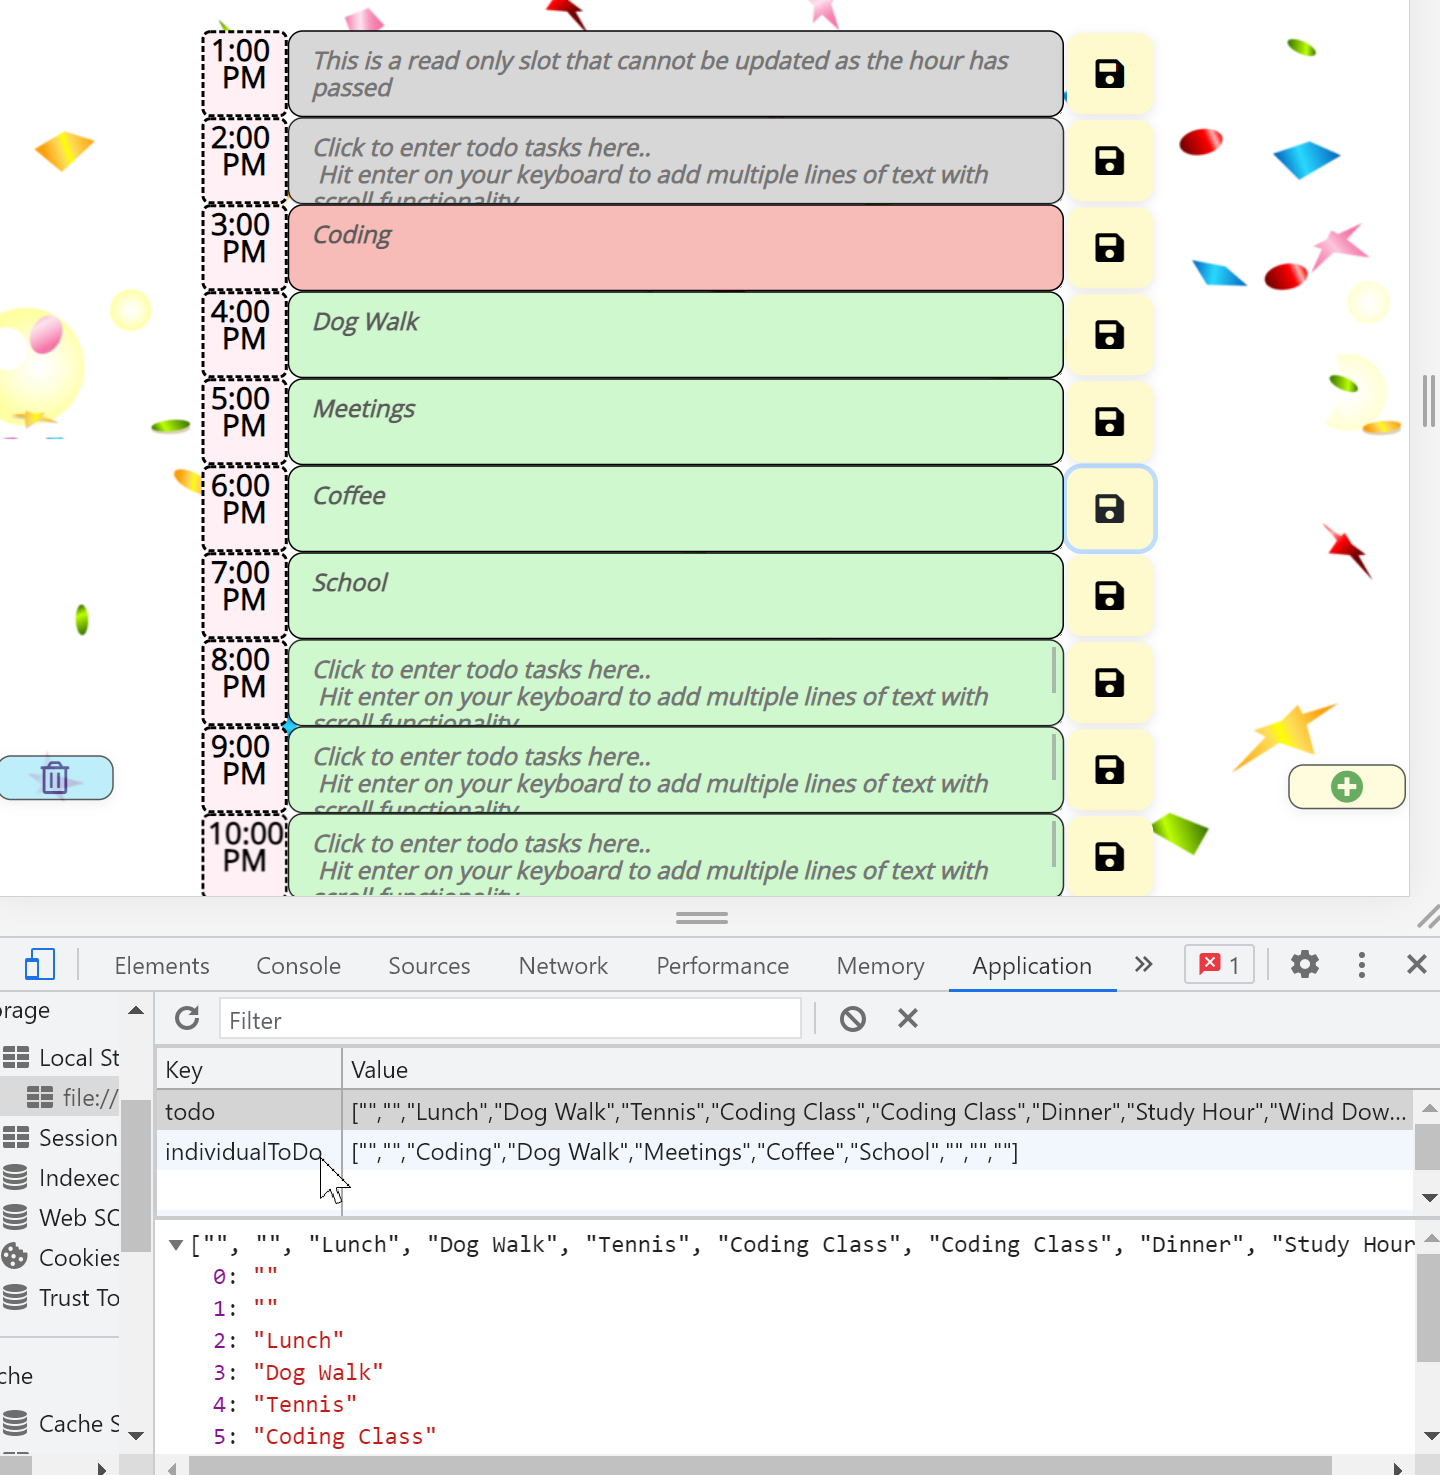
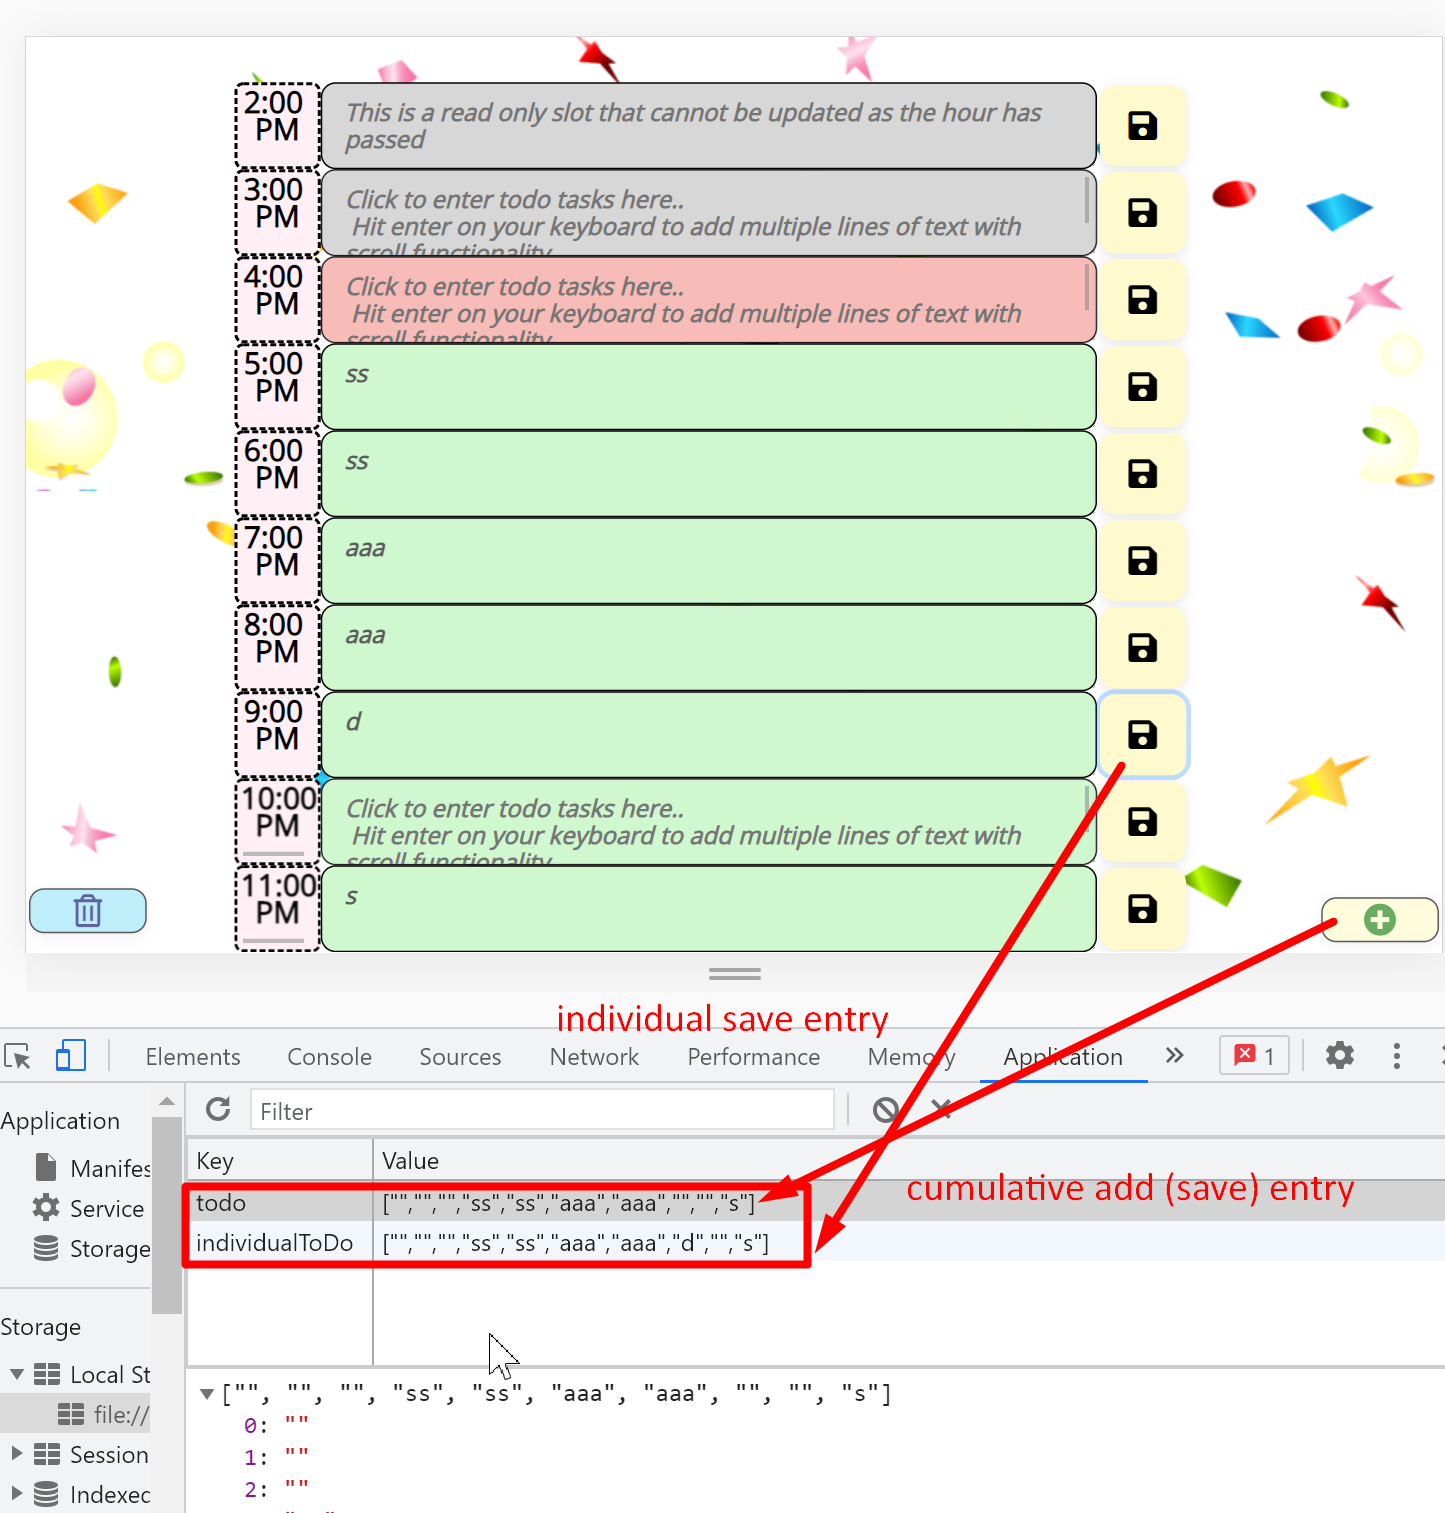
implemented a refresh cache logic and updated readme

diff --git a/Assets/javascript/script.js b/Assets/javascript/script.js
@@ -1,8 +1,7 @@
-/* pending to do's 
-PENDING MUST HAVE: WHEN I refresh the page THEN the saved events persist
+/* pending to do's  or KNOWN ISSUES
 
 ✅a) need to add the schedule for user input on start time and a back button
-b) see if the hours can be fixed when day starts in the evening and continues into wee hours
+b) see if the hours can be fixed when day starts in the evening say at 5pm past and continues into early morning hours past midnight ( 24'oclock)
 c) fix the color for present/future/past to work no matter say if user inputs 7am when actual time is 4pm
 ✅d) add background image(s)
 ✅ e) scale for table screen (intermediate)
@@ -13,8 +12,10 @@ c) fix the color for present/future/past to work no matter say if user inputs 7a
 ✅j) disable input to time blocks that are in the past
 ✅k) need to add to local storage and delete as well ( common save delete button implemented)
 ✅l) need to make the buttons work
-m) browser refresh persist functionality
+✅ m) browser refresh persist functionality ( I got this to work but the user still needs to start with entering the hour to see entries )
 n) if delete is empty let user know there is no need to proceed with the deletion as there's nothing to delete
+o) need to fix the placeholder for the hour before the present hour
+p) on tiny mobile screeens need to fix the placement of the add and delete floating buttons
 */
 
 // back button being selected by id not class!
@@ -89,27 +90,31 @@ var hour = $('<div class="hour col-md-1">');
 if (i < 12) {
     // Add text to the hour element defined above
     hour.text(i + ":00 AM");
-} else if(i > 12){
-    hour.text((i-12) + ":00 PM");
 } else if ((i == 12 || i ==24)){
     hour.text(i + " o'Clock");
-}
+} // if(i > 12) then convert to a 12 hour clock instead of a 24 hour clock
+else {
+    var revisedHour =i;
+    revisedHour -=12;
+    hour.text(revisedHour + ":00 PM");
+} 
 
 // Adds the class `todo and col-md-9` to the user text element // learnt how to add a text area placeholder https://www.w3schools.com/tags/att_textarea_placeholder.asp + // Uses col-*-* class for viewing to adjust on different screens..after trying several permutations and combinations settling for the col-md-* class i've chosen these values to appear full-size on small devices and half-size on medium or larger devices -->
     var userText = $('<textarea placeholder="Click to enter todo tasks here..\n Hit enter on your keyboard to add multiple lines of text with scroll functionality." class="text ">').addClass('todo col-md-9');
-            // check to see if there is saved data to pull into the time blocks
-if(localStorage.getItem("cache") === null){
+            // check to see if there is saved data ( using add or the save button options) to pull into the time blocks
+if(localStorage.getItem("todo") === null){
     userText.text('');
 }else{
-    let matchHour = i;
+    var matchHour = i;
     // console.log(matchHour);
-    var oldTodo = JSON.parse(localStorage.getItem("cache")); //window.localStorage is the same as localstorage
+    var oldTodo = JSON.parse(localStorage.getItem("todo")); //window.localStorage is the same as localstorage
     // console.log(oldTodo);
     matchHour -= startHour;
     // console.log(matchHour);
     userText.text(oldTodo[matchHour]);
     // console.log(oldTodo[matchHour]);
 }
+
   // flex box container concept https://getbootstrap.com/docs/4.4/utilities/flex/
   var saveBtn = $('<button class="col-md-1 btn d-flex justify-content-center align-items-center" title="individual save button logic for this rows text input"><i class="fas fa-save"></i></button>');
 //adds a save class to the btn and also an identifier with value of i to determine which number save button is clicked
@@ -144,9 +149,12 @@ timeBlocks.append(delBtn, addBtn);
    //hides the instructional alert up  and footer at the bottom
 instructional_alert.hide();
 footerHide.hide();
+
 };
+
+
 // as per this i cannot just say $('.add').on('click', function(){} ... since the add button was dynamically generated and there is no place holder in the index file to be referenced for click action
-$(document).on('click', '.add', function() {
+$(document).on('click', '.add', function Add() {
     // console.log("add");
 // this alert isnt required but helps if someone finds the button active visual cue a little too subtle
     // alert("Your todo entry has been saved. Click Ok to add more todo items for the day or review your workday schedule!")
@@ -170,7 +178,7 @@ $(document).on('click', '.add', function() {
 
 
 //event handler on individual save button that stores user input to local storage
-$(document).on('click', '.save', function() {
+$(document).on('click', '.save', function Save() {
     alert("Your todo entry has been saved. Click Ok to add more todo items for the day or review your workday schedule!")
     //initialize an array to hold the individual entries the user saves
     var toDoIndividualEntry = [];
@@ -184,7 +192,7 @@ $(document).on('click', '.save', function() {
 
 
 // function to deletes user all text from the screen and from  browser local storage 
-$(document).on('click', '.erase', function() {
+$(document).on('click', '.erase', function Delete() {
     // validating via an alert to ask user to confirm if their input should be deleted if text area is not empty
 if ($(document).siblings(".todo").val() !== "") {
         var ask = confirm("Please click OK to confirm if you would like to delete all text entries on this page else click Cancel to proceed with updating your workday schedule?");
@@ -198,3 +206,17 @@ if ($(document).siblings(".todo").val() !== "") {
 }
 });
 
+//page reload functionality 
+window.load = function(){
+if(localStorage.getItem("todo") === null){
+    userText.text('');
+}else{
+    var matchHour = i;
+    // console.log(matchHour);
+    var oldTodo = JSON.parse(localStorage.getItem("todo")); //window.localStorage is the same as localstorage
+    // console.log(oldTodo);
+    matchHour -= startHour;
+    // console.log(matchHour);
+    userText.text(oldTodo[matchHour]);
+    // console.log(oldTodo[matchHour]);
+}}

diff --git a/README.md b/README.md
@@ -36,6 +36,8 @@ Laptop View:<img src= "./Assets/images/LaptopView.png">
 Mobile View:<img src= "./Assets/images/MobileView.png">
 Individual Entry Save Prompt: <img src= "./Assets/images/IndividualSavePrompt.png">
 Cumulative Entry Save Function: <img src= "./Assets/images/AddButton.png">
+Local Data Persistence between Page Refreshes if Delete is not triggered - to get to this page you still need to enter a start hour be it the same or new hour: <img src= "./Assets/images/DataPersistenceUponPageRefresh.png">
+Local Browser Storage logic for the 2 save implementations: <img src= "./Assets/images/LocalStorage(IndividualSavevsAddAll).png">
 Clear All Text Entries for the existing Schedule: <img src= "./Assets/images/DeleteEntriesforExistingSchedule(ClearAllText).png">
 
 
